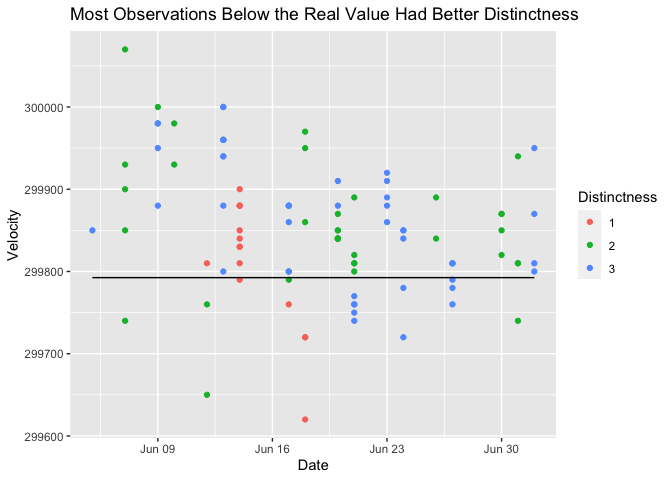
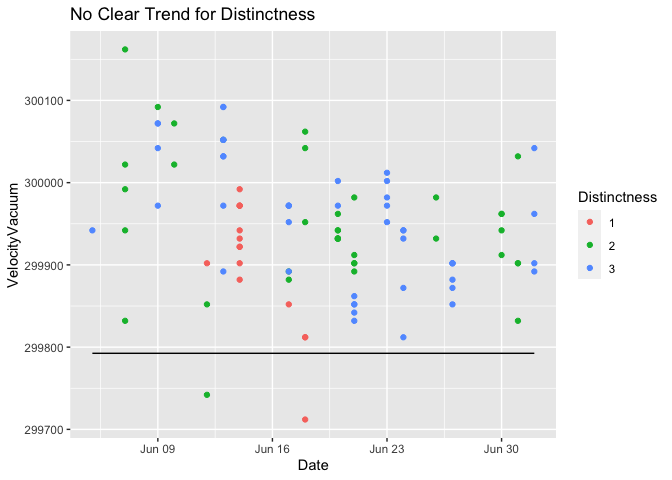
Michelson report edited

diff --git a/challenges/c02-michelson-assignment.md b/challenges/c02-michelson-assignment.md
@@ -1,7 +1,7 @@
 Michelson Speed-of-light Measurements
 ================
 Charlie Farison
-2020-07-15
+2020-07-18
 
   - [Grading Rubric](#grading-rubric)
       - [Individual](#individual)
@@ -281,55 +281,35 @@ between Michelson’s estimate and `LIGHTSPEED_VACUUM`?
 library(viridis)
 df_q2 %>%
   ggplot() +
-  geom_point(mapping = aes(x = Date, y = Velocity, color = Temp)) +
+  geom_point(mapping = aes(x = Date, y = VelocityVacuum, color = Temp)) +
   geom_line(mapping = aes(x = Date, y = 299792.5)) +
   scale_color_viridis() + 
-  ggtitle("Higher Temperature Readings Tend to Be Above the True Value")
+  ggtitle("Most Readings Are Above the True Value")
 ```
 
 ![](c02-michelson-assignment_files/figure-gfm/visualization-temp-1.png)<!-- -->
 
 **Observations**:
 
-  - Higher temperature readings seem to be above the true value.
+  - The vast majority of readings seem to be above the true value.
 
 <!-- end list -->
 
 ``` r
 df_q2 %>%
-  filter(Temp > 84) %>%
+  filter(Temp > 71) %>%
   ggplot() +
-  geom_point(mapping = aes(x = Date, y = Velocity, color = Temp)) +
+  geom_point(mapping = aes(x = Date, y = VelocityVacuum, color = Temp)) +
   geom_line(mapping = aes(x = Date, y = 299792.5)) +
   scale_color_viridis() +
-  ggtitle("Above a Temperature of 84, All Readings Are Above the Real Value")
+  ggtitle("Above a Temperature of 71, All Readings Are Above the Real Value")
 ```
 
 ![](c02-michelson-assignment_files/figure-gfm/visualization-temp-high-1.png)<!-- -->
 
 **Observations**:
 
-  - Above a temperature of 84, all readings are above the real value.
-
-<!-- end list -->
-
-``` r
-library(viridis)
-df_q2 %>%
-  filter(Temp < 84) %>%
-  ggplot() +
-  geom_point(mapping = aes(x = Date, y = Velocity, color = Temp)) +
-  geom_line(mapping = aes(x = Date, y = 299792.5)) +
-  scale_color_viridis() +
-  ggtitle("Excluding Temperatures Above 84, Readings are Closer to Real Value")
-```
-
-![](c02-michelson-assignment_files/figure-gfm/visualization-temp-lower-1.png)<!-- -->
-
-**Observations**:
-
-  - Excluding observations above a temperature of 84, the readings seem
-    much closer to the real value.
+  - Above a temperature of 71, all readings are above the real value.
 
 <!-- end list -->
 
@@ -345,21 +325,50 @@ df_q2 %>%
 
 ``` r
 df_q2 %>%
-  filter(Temp < 84) %>%
+  filter(Temp < 71) %>%
   summarise(Michelson_Estimate_Excluding_High_Temps = mean(VelocityVacuum))
 ```
 
     ## # A tibble: 1 x 1
     ##   Michelson_Estimate_Excluding_High_Temps
     ##                                     <dbl>
-    ## 1                                 299940.
+    ## 1                                 299910.
 
 **Observations**:
 
-  - Excluding observations above a temperature of 84, the average only
-    changes by 4 km/s, so excluding the highest temperature readings is
-    not enough to estimate the speed of light with much less
-    uncertainty.
+  - Excluding observations above a temperature of 71, the average gets
+    closer to the real value, but only decreases by 34.9 km/s, likely
+    because there are only 2 data points that were below the real value.
+
+<!-- end list -->
+
+``` r
+df_q2 %>%
+  summarise(Count = n())
+```
+
+    ## # A tibble: 1 x 1
+    ##   Count
+    ##   <int>
+    ## 1   100
+
+``` r
+df_q2 %>%
+  filter(Temp < 71) %>%
+  summarise(Count_Below_71 = n())
+```
+
+    ## # A tibble: 1 x 1
+    ##   Count_Below_71
+    ##            <int>
+    ## 1             20
+
+**Observations**:
+
+  - Of the observations taken, only 20 of the 100 observations were
+    taken below a temperature of 71. Doing more observations at a lower
+    temperature may have helped get more accurate data. Doing a more
+    rigorous temperature correction may have helped as well.
 
 <!-- end list -->
 
@@ -367,60 +376,25 @@ df_q2 %>%
 library(viridis)
 df_q2 %>%
   ggplot() +
-  geom_point(mapping = aes(x = Date, y = Velocity, color = Distinctness)) +
+  geom_point(mapping = aes(x = Date, y = VelocityVacuum, color = Distinctness)) +
   geom_line(mapping = aes(x = Date, y = 299792.5)) +
-  ggtitle("Most Observations Below the Real Value Had Better Distinctness")
+  ggtitle("No Clear Trend for Distinctness")
 ```
 
 ![](c02-michelson-assignment_files/figure-gfm/visualization-distinct-1.png)<!-- -->
 
 **Observations**:
 
-  - Most of the observations below the real value had better
-    distinctness.
-
-<!-- end list -->
-
-``` r
-library(viridis)
-df_q2 %>%
-  filter(Distinctness == 3) %>%
-  ggplot() +
-  geom_point(mapping = aes(x = Date, y = Velocity, color = Distinctness)) +
-  geom_line(mapping = aes(x = Date, y = 299792.5)) +
-  ggtitle("Limiting Distinctness to 3, Most Observations Still Above Real Value")
-```
-
-![](c02-michelson-assignment_files/figure-gfm/visualization-distinct-high-1.png)<!-- -->
-
-**Observations**:
-
-  - Even with distinctness limited to 3, most observations are above the
-    real value.
-
-<!-- end list -->
-
-``` r
-df_q2 %>%
-  filter(Distinctness == 3) %>%
-  summarise(Michelson_Estimate_High_Distinctness = mean(VelocityVacuum))
-```
-
-    ## # A tibble: 1 x 1
-    ##   Michelson_Estimate_High_Distinctness
-    ##                                  <dbl>
-    ## 1                              299954.
-
-**Observations**:
-
-  - Limiting results to ones with high distinctness actually increases
-    the mean, away from the real value.
+  - There doesn’t seem to be a clear trend between distinctness and
+    proximity to the real value.
 
 **Summary of Observations**:
 
-  - High temperature does seem to skew the average up, but only by 4.
-    The increased uncertainty seems to have come from some variable
-    other than temperature, distinctness, or date.
+  - High temperature does seem to skew the average up. Perhaps using a
+    correction of temperature by point, rather than correcting all
+    values by adding +94 km/s based on the average temperature, would
+    have helped. Taking more readings at lower temperatures, below 71,
+    may also have helped.
 
 ## Bibliography
 
